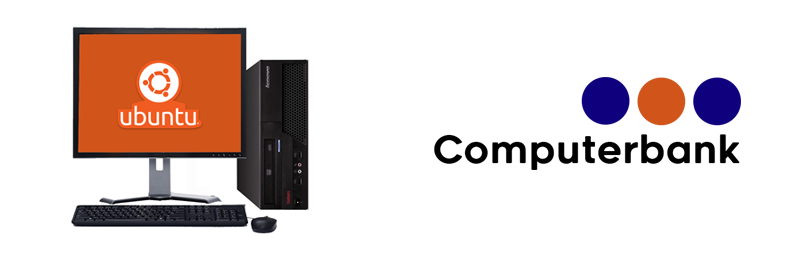
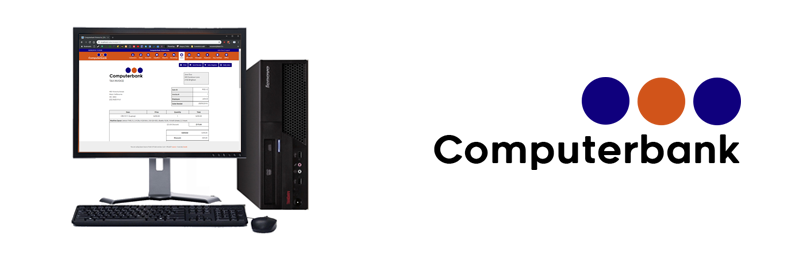
styling updates

Changed region(s): [[0.0901, 0.1236, 0.3004, 0.5869]]

diff --git a/public/css/ospos.css b/public/css/ospos.css
@@ -248,3 +248,9 @@ h3.text-center {
 	}
   }
 
+  .topbar {
+    background: #0f007d;
+}
+.topbar a {
+    color: #ffc0a8;
+}
